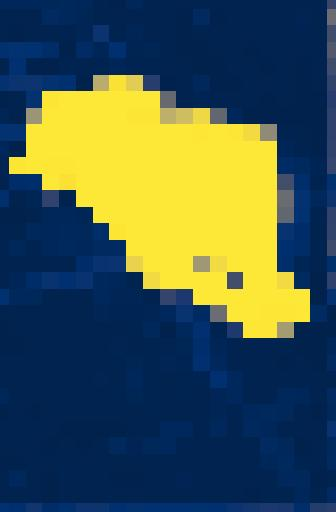
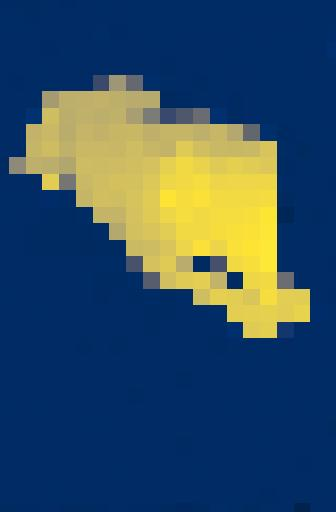
cuda for NCut

diff --git a/TokenCut/object_discovery.py b/TokenCut/object_discovery.py
@@ -5,8 +5,9 @@ Code adapted from LOST: https://github.com/valeoai/LOST
 
 import torch
 import torch.nn.functional as F
+from torch.linalg import eigh
 import numpy as np
-from scipy.linalg import eigh
+# from scipy.linalg import eigh
 from scipy import ndimage
 from fastncut import FastNcut
 
@@ -33,22 +34,24 @@ def ncut(
       im_name: image_name
       no_binary_graph: ablation study for using similarity score as graph edge weight
     """
-    cls_token = feats[0, 0:1, :].cpu().numpy()
+    cls_token = feats[0, 0:1, :].detach()
 
     feats = feats[0, 1:, :]
-    feats = F.normalize(feats, p=2)
+    feats = torch.nn.functional.normalize(feats, p=2)
     A = feats @ feats.transpose(1, 0)
-    A = A.cpu().numpy()
+
     if no_binary_graph:
         A[A < tau] = eps
     else:
-        A = A > tau
-        A = np.where(A.astype(float) == 0, eps, A)
-    d_i = np.sum(A, axis=1)
-    D = np.diag(d_i)
+        A = (A > tau).float()
+        A[A == 0] = eps
+    d_i = torch.sum(A, dim=1)
+    D = torch.diag(d_i)
 
     # Print second and third smallest eigenvector
-    _, eigenvectors = eigh(D - A, D, subset_by_index=[1, 2])
+    L = D - A
+    _, eigenvectors = torch.linalg.eigh(L, UPLO="U")
+    eigenvectors = eigenvectors.cpu().numpy()
     eigenvec = np.copy(eigenvectors[:, 0])
 
     # Using average point to compute bipartition

diff --git a/TokenCut/fastncut.py b/TokenCut/fastncut.py
@@ -26,18 +26,18 @@ class FastNcut:
         c = np.zeros([const_num, 1])
         return B, c
 
-    def _init_P(self):
-        return np.eye(len(self.A)) - self.B.T @ self.BB_inv @ self.B
+    # def _init_P(self):
+    #     return np.eye(len(self.A)) - self.B.T @ self.BB_inv @ self.B
 
-    def _init_n(self):
-        return self.B.T @ self.BB_inv @ self.c
+    # def _init_n(self):
+    #     return self.B.T @ self.BB_inv @ self.c
 
-    def _init_ganma(self, n):
-        return np.sqrt(1 - np.linalg.norm(n) ** 2)
+    # def _init_ganma(self, n):
+    #     return np.sqrt(1 - np.linalg.norm(n) ** 2)
 
-    def _init_v(self, ganma, P, n):
-        PA = P @ self.A
-        return ganma * PA @ n / np.linalg.norm(PA @ n) + n
+    # def _init_v(self, ganma, P, n):
+    #     PA = P @ self.A
+    #     return ganma * PA @ n / np.linalg.norm(PA @ n) + n
 
     def _projected_powermethod(self):
         A = torch.from_numpy(self.A).to(torch.float32).cuda()

diff --git a/TokenCut/main_tokencut.py b/TokenCut/main_tokencut.py
@@ -334,7 +334,7 @@ if __name__ == "__main__":
             b = time.time()
 
             # pred, objects, foreground, seed, bins, eigenvector = fast_ncut(
-            pred, objects, foreground, bins, eigenvector = fast_ncut_optimized(  
+            pred, objects, foreground, bins, eigenvector = fast_ncut_optimized(
                 feats,
                 [w_featmap, h_featmap],
                 scales,
@@ -345,8 +345,7 @@ if __name__ == "__main__":
                 no_binary_graph=args.no_binary_graph,
             )
             c = time.time()
-            # print('Ncut:', b-a)
-            # print('Fast_ncut:', c-b)
+    
             ncut_time = ncut_time + (b - a)
             fast_ncut_time = fast_ncut_time + (c - b)
 
